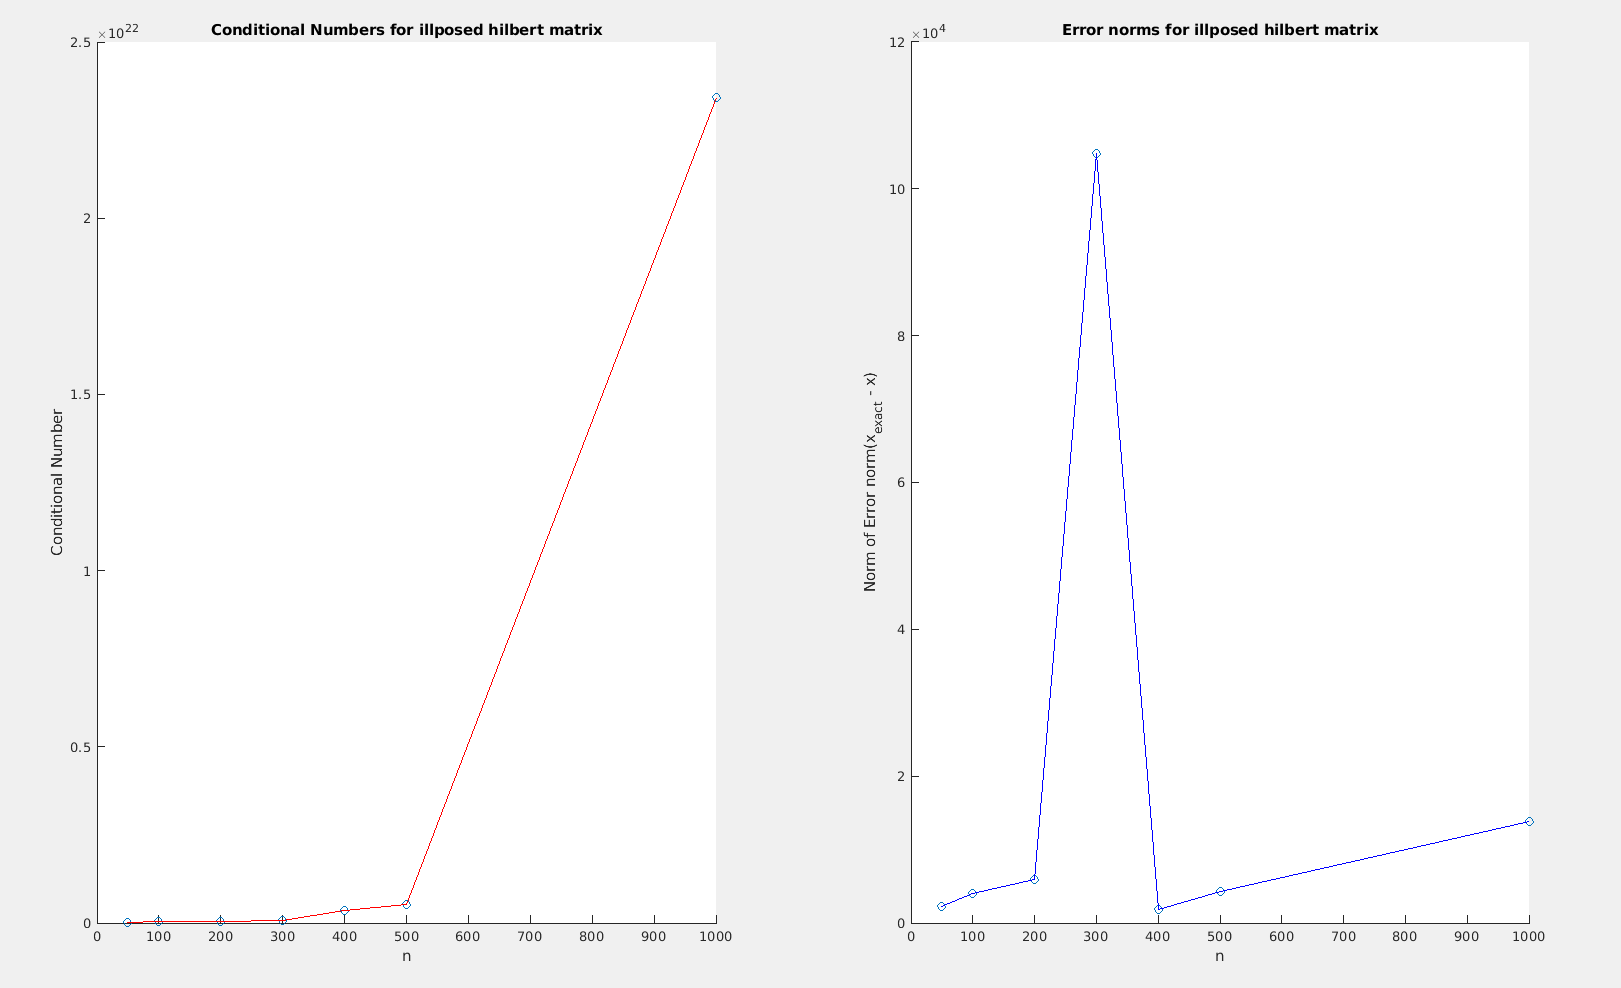
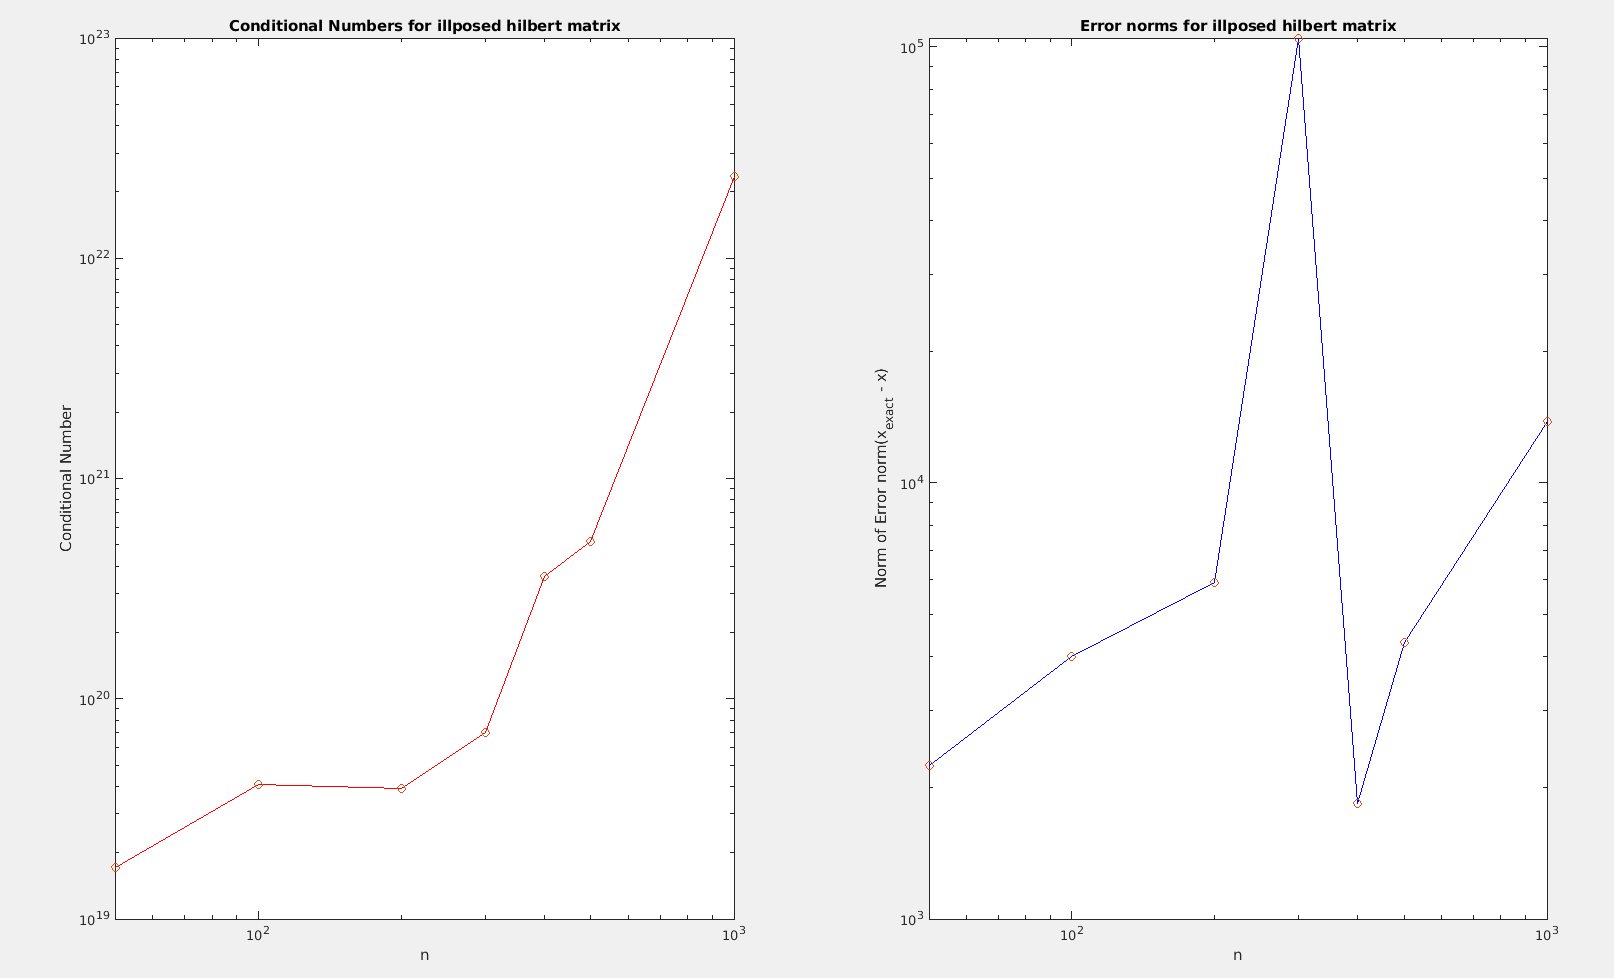
finished numerical bonus

diff --git a/Hun_Rim_BonusProject/Template (4)/Template/template.tex b/Hun_Rim_BonusProject/Template (4)/Template/template.tex
@@ -826,7 +826,7 @@ The values of ${n}$ are stored in a predefined array of the same name. Then the 
         \centering
         \includegraphics[width=0.9\linewidth]{./figures/ex5b.png}
     \end{minipage}
-  \caption{Illposed Hilbert Matrix's conditional numbers and error norms}
+  \caption{Illposed Hilbert Matrix's conditional numbers and error norms, for clarity the graph is logged}
 \end{figure}
 
 \newpage
@@ -838,8 +838,42 @@ parameter ${\alpha}$ (explain your choice of the values). To visualize the resul
 ${\norm{Hx = b}_2}$ against ${\norm{x}_2}$ for the different
 values of ${\alpha}$. Comment your results. \\
 
-Tikhonov regularization introduces a regularization parameter ${\alpha}$, which controls the trade-off be-
-tween the least squares fit ${\norm{Hx - b}_2}$ and the magnitude of the solution vector ${\norm{x}^2}$, as described in the equation 13.
+Tikhonov regularization introduces a regularization parameter ${\alpha}$, which controls the trade-off between the least squares fit ${\norm{Hx - b}_2}$ and the magnitude of the solution vector ${\norm{x}_2}$, as described in the equation 13. \\
+
+\begin{lstlisting}
+    alphas = logspace(-19, 1, 10);
+    for i = 1:length(alphas)
+        x_reg = (H' * H + alphas(i) * eye(n)) \ H' * b;
+
+        errorNorms(i) = norm(x_exact - x_reg);
+        solutionNorms(i) = norm(x_reg);
+        residualNorms(i) = norm(H * x_reg - b);
+    end
+        
+    ... graph the result ...
+\end{lstlisting}
+
+\vspace{20px}
+
+The ${x_{reg}}$ value is calculated according to simplified version of the equation 13 as demonstrated in equation 16. From the ${x_{reg}}$ calculated, the rest can be calculated using pre-defined values. The resulting graph is as the following:
+
+\vspace{20px}
+
+ \begin{figure}[h!]
+    \begin{minipage}[c]{1\linewidth}
+        \centering
+        \includegraphics[width=0.9\linewidth]{./figures/ex5c.png}
+    \end{minipage}
+  \caption{Regularized Matrix, the norm of the error ${\norm{x_{exact} - x_2}}$ against ${\alpha}$ (left), and ${\norm{Hx - b}_2}$ against ${\norm{x}_2}$ (right), graphs are logged for better visualization}
+\end{figure}
+
+\newpage
+
+The graph on the left showing the alpha's relation against norm of errors shows that as the value of alpha increases, the norm of error increase in the beginning and fall drastically in the middle, and start increasing exponentially. It is an indication that there is an optimal range of values for ${\alpha}$. \\
+
+Unlike the graph on the right, graph on the left shows a downshift trend and a bit of a rise at the end. Which means as solution norm increases, the residual norm decreases to certain extent and trend is broken after a certain point. Which indicates that as solution norm increases, the graph fits better to the original data and after certain point it starts to overfit. \\
+
+In conclusion, it would be important to find range of ${\alpha}$ values which minimizes the norm of error without underfitting or overfitting the graph to the original datapoints. 
 
 \end{enumerate}
 

diff --git a/Hun_Rim_BonusProject/src/regularizedHilbert.m b/Hun_Rim_BonusProject/src/regularizedHilbert.m
@@ -1,0 +1,38 @@
+rng('default');
+n = 100;
+H = hilb(n);
+x_exact = rand(n, 1);
+b = H * x_exact;
+
+alphas = logspace(-19, 1, 10);
+errorNorms = zeros(length(alphas), 1);
+solutionNorms = zeros(length(alphas), 1);
+residualNorms = zeros(length(alphas), 1);
+
+for i = 1:length(alphas)
+    x_reg = (H' * H + alphas(i) * eye(n)) \ H' * b;
+
+    errorNorms(i) = norm(x_exact - x_reg);
+    solutionNorms(i) = norm(x_reg);
+    residualNorms(i) = norm(H * x_reg - b);
+end
+
+subplot(1, 2, 1);
+loglog(alphas, errorNorms, 'r-');
+
+hold on;
+scatter(alphas, errorNorms, 'o');
+title("Norm of the errors against alpha values");
+xlabel("Alpha");
+ylabel("Error norms");
+hold off;
+
+subplot(1, 2, 2);
+loglog(solutionNorms, residualNorms, 'b-');
+hold on;
+
+scatter(solutionNorms, residualNorms, 'o');
+title("Norm of residuals against norm of solutions");
+xlabel("NormSolution");
+ylabel("ResidualNorm");
+hold off;

diff --git a/Hun_Rim_BonusProject/src/illposedHilbert.m b/Hun_Rim_BonusProject/src/illposedHilbert.m
@@ -14,18 +14,21 @@ for i = 1:length(n)
 end
 
 subplot(1, 2, 1);
-scatter(n, condNum, 'o', 'DisplayName', 'Conditional Numbers');
+% hold on;
+loglog(n, condNum, 'r-');
 hold on;
-plot(n, condNum, 'r-');
+scatter(n, condNum, 'o', 'DisplayName', 'Conditional Numbers');
 xlabel("n");
 ylabel("Conditional Number");
 hold off;
 title("Conditional Numbers for illposed hilbert matrix")
 
 subplot(1, 2, 2);
-scatter(n, errorNorms, 'o', 'DisplayName', 'Norm Error');
+% scatter(n, errorNorms, 'o', 'DisplayName', 'Norm Error');
+% hold on;
+loglog(n, errorNorms, 'b-');
 hold on;
-plot(n, errorNorms, 'b-');
+scatter(n, errorNorms, 'o', 'DisplayName', 'Norm Error');
 xlabel("n");
 ylabel("Norm of Error norm(x_{exact} - x)");
 hold off;
